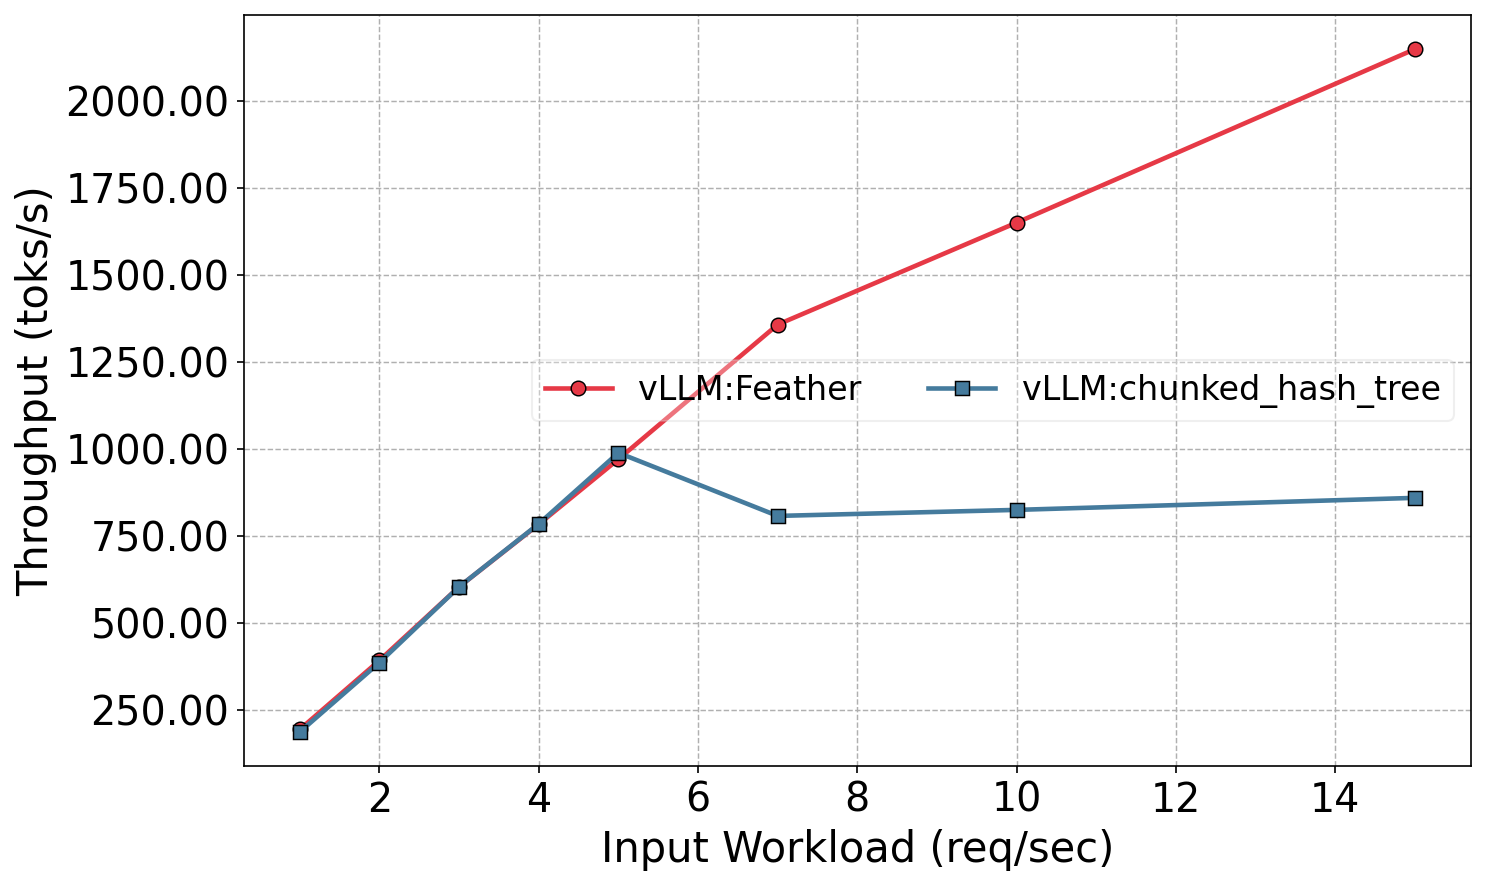
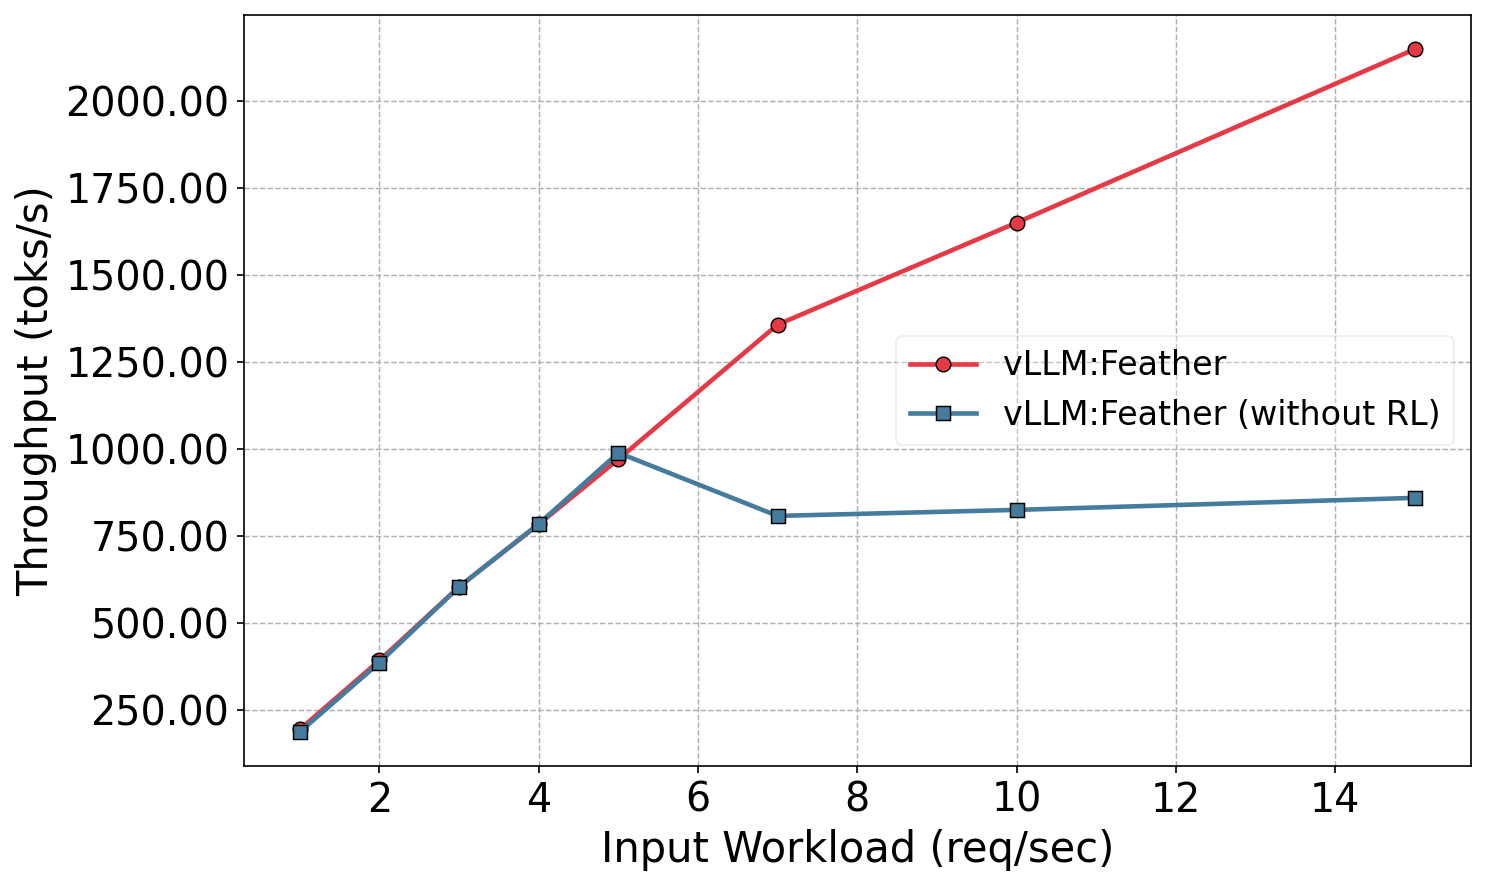
low req-per-rate, why rl helpful plots

Changed region(s): [[0.6195, 0.3962, 0.9912, 0.4876], [0.4337, 0.3962, 0.5886, 0.4571], [0.3717, 0.4266, 0.4027, 0.4571]]

diff --git a/code/vllm/req_per_sec_logs_ablation/plot.py b/code/vllm/req_per_sec_logs_ablation/plot.py
@@ -111,6 +111,8 @@ for path in log_files:
         policy = "Feather"
     if policy == "chunked_hash_tree_heuristic":
         continue
+    if policy == "chunked_hash_tree":
+        policy = "Feather (without RL)"
     label = f"{engine}:{policy}"
 
     avg_batch, avg_diff, throughput = parse_log(path)
@@ -203,7 +205,7 @@ def make_plot(metric_key, ylabel, title, outpath):
             fontsize=16,
             framealpha=0.3,
             loc="center right",
-            ncol=2
+            ncol=1
         )
 
     ax.grid(True, linewidth=0.7, linestyle="--")
